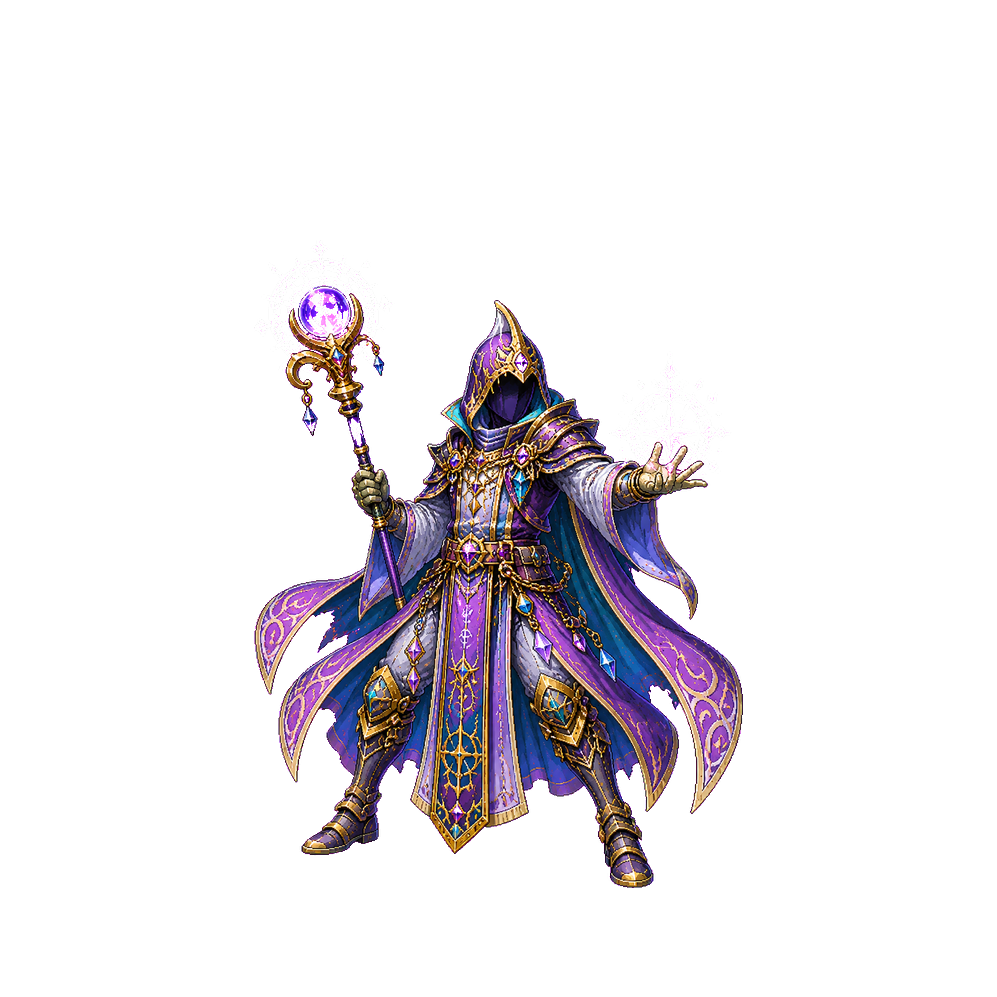
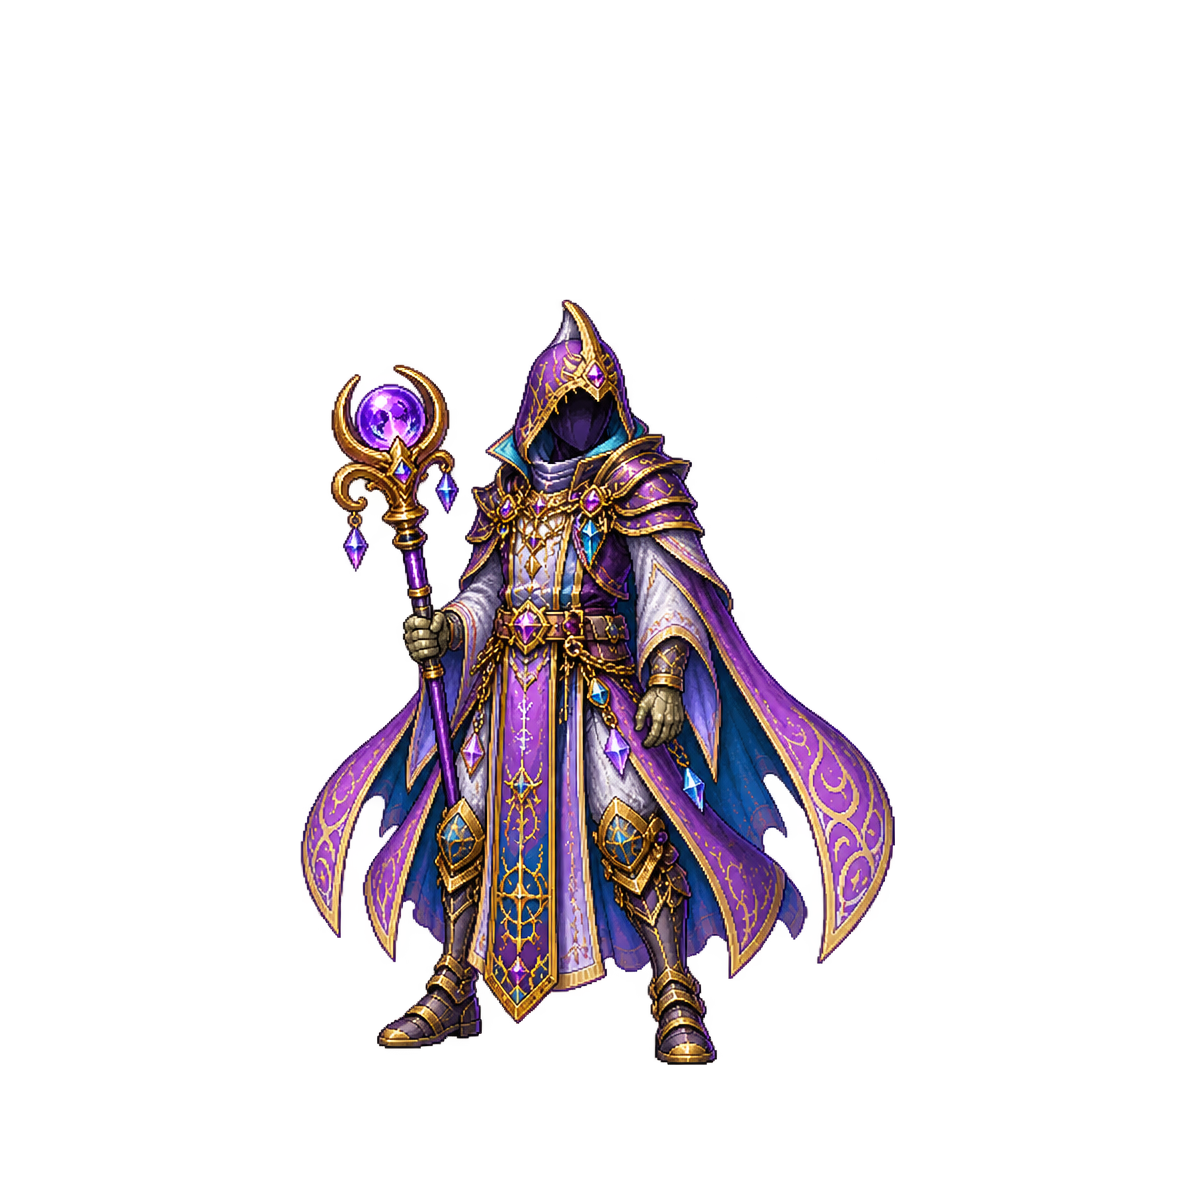
Stand the six recruitable heroes at rest in the dialogue tableaux: a rest pose drawn from each master by the final images tool, Lyra piloted then the five others accepted by the operator, framed without resampling at the company's stature, with provenance; combat, portraits and the company register 
Agent: claude; Run: claude-bilan-recit-20261113T1644Z

Changed region(s): [[0.2487, 0.2487, 0.7462, 0.9017]]

diff --git a/tools/art/finalImages.ts b/tools/art/finalImages.ts
@@ -14,14 +14,18 @@
  *     beside the generated image). Nothing is integrated: only images the operator accepts are integrated afterwards.
  *
  *   npx vite-node tools/art/finalImages.ts -- poses --group heroes --step pose|fx   (combat poses, OD-2026-11-13-A)
+ *
+ *   npx vite-node tools/art/finalImages.ts -- rest --units lyra   (tableau rest poses of the recruitable heroes, 2026-11-13)
+ *     Draws each hero standing at rest from its master, for the dialogue tableaux, into tmp/tableau-rest/out/.
  *     Draws the three combat poses of the units of tools/art/combatPosesTable.ts (--group or --units id1,id2), then adds
  *     their baked effects (--step fx), into tmp/combat-poses/out/. --poses dash,attack limits the poses, --force redoes them.
  *
  * Options for run: --model <name> (default: the project's earlier approved image model), --quality <low|medium|high> (default high), --force (redo
  * images already generated), --concurrency <1-6> (requests at once, default 1). tmp/ is ignored by Git.
  */
+import { execSync } from 'node:child_process';
 import { existsSync, mkdirSync, readFileSync, renameSync, writeFileSync } from 'node:fs';
-import { join, resolve } from 'node:path';
+import { dirname, join, resolve } from 'node:path';
 import * as bear from '../../src/campaign/plateaux/bear/bearPresentation';
 import * as dragon from '../../src/campaign/plateaux/dragon/dragonPresentation';
 import * as scorpion from '../../src/campaign/plateaux/scorpion/scorpionPresentation';
@@ -548,6 +552,69 @@ async function runPoses(args: string[], option: (name: string) => string | undef
   console.log(`Finished${failed ? ` with ${failed} failed` : ''}. Outputs in tmp/combat-poses/out/.`);
 }
 
+/**
+ * Tableau rest poses of the six recruitable heroes (operator's choice of 2026-11-13: « Générer, pilote sur Lyra »). Their
+ * masters are action poses, unlike the company's and every plateau character's; the dialogue tableaux need them standing
+ * at rest. One call per hero, the master as the first reference and a company master as the second, for the pose only.
+ * Outputs go to tmp/tableau-rest/out/ (ignored by Git); nothing is integrated before the operator accepts the image.
+ */
+export const REST_DIR = join(ROOT, 'tmp', 'tableau-rest');
+export const REST_POSE_REFERENCE = 'public/assets/characters/pixel/masters/alistair.png';
+export const restOut = (unitId: string) => ['tmp', 'tableau-rest', 'out', `${unitId}__rest.png`].join('/');
+
+export function restPrompt(unitId: string): string {
+  const unit = POSE_UNITS[unitId];
+  if (!unit || unit.group !== 'heroes') throw new Error(`Not a recruitable hero: ${unitId}`);
+  return sentences(STYLE,
+    `The first attached image is our own game character: ${unit.look}`,
+    'The second attached image is another character of our game, given only to show the standing rest pose every character takes in our dialogue scenes: copy that kind of pose and framing, never its look, colours or weapon.',
+    'Draw the first character again, standing calmly at rest in a dialogue scene: upright, weight on both feet, the body turned three-quarters, the arms lowered and relaxed, the weapon held at rest, lowered or carried, never attacking, casting, aiming or leaping.',
+    'Keep everything identical to the first image: the same body, armour and clothes, the same colours, the same proportions and the same weapon.',
+    unit.intrinsic,
+    'One single full-body sprite, never cropped, the feet on a ground line near the bottom of the canvas, with empty space all around it, on a fully transparent background.',
+    COVERED_FACE_RULE,
+    'The helmet, mask or hood stays in place.',
+    unit.intrinsic ? NO_OTHER_EFFECTS : NO_EFFECTS);
+}
+
+/** The project's env file lives in the main checkout; a worktree session reads it there, through the same loader. */
+function mainCheckoutRoot(): string | null {
+  try {
+    const common = execSync('git rev-parse --path-format=absolute --git-common-dir', { cwd: ROOT, encoding: 'utf8' }).trim();
+    return dirname(common);
+  } catch {
+    return null;
+  }
+}
+
+async function runRest(args: string[], option: (name: string) => string | undefined): Promise<void> {
+  const main = mainCheckoutRoot();
+  const found = openAiKey() ?? (main ? openAiKey(main) : null);
+  if (!found) throw new Error('No OPENAI_API_KEY in this terminal or in .env.local; the tool never prints or stores it.');
+  console.log(`OpenAI access: ${found.source} (value never shown).`);
+  const units = (option('--units') ?? '').split(',').map((id) => id.trim()).filter(Boolean);
+  if (!units.length) throw new Error('Choose heroes with --units lyra or --units aldric,morvan,eldwin,talon,gunnar.');
+  const model = option('--model') ?? 'gpt-image-2.5-sunburst-2026-09-08';
+  const quality = option('--quality') ?? 'high';
+  mkdirSync(join(REST_DIR, 'out'), { recursive: true });
+  let failed = 0;
+  await Promise.all(units.map(async (unitId) => {
+    const out = restOut(unitId);
+    if (existsSync(join(ROOT, out)) && !args.includes('--force')) { console.log(`Already generated: ${out}`); return; }
+    const prompt = restPrompt(unitId);
+    const references = [POSE_UNITS[unitId]!.master, REST_POSE_REFERENCE];
+    try {
+      writeFileSync(join(ROOT, out), await requestImage(prompt, '1024x1024', true, references, found.key, model, quality));
+      appendToLog(join(REST_DIR, 'log.json'), [{ unitId, prompt, references, model, quality, out, at: new Date().toISOString() }]);
+      console.log(`done: ${out}`);
+    } catch (error) {
+      failed += 1;
+      console.log(`failed: ${out}: ${error instanceof Error ? error.message : String(error)}`);
+    }
+  }));
+  console.log(`Finished${failed ? ` with ${failed} failed` : ''}. Outputs in tmp/tableau-rest/out/.`);
+}
+
 function reviewPage(items: FinalImageBrief[]): string {
   const rows = items.map((item) => {
     const out = join(OUT_DIR, 'out', fileOf(item.id));
@@ -572,6 +639,7 @@ async function main(): Promise<void> {
     return;
   }
   if (command === 'poses') return runPoses(args, option);
+  if (command === 'rest') return runRest(args, option);
   if (command === 'poses-table') { writePoseTable(); console.log('Pose table written: tmp/combat-poses/units.json'); return; }
   if (command !== 'run') throw new Error(`Unknown command "${command}": use plan, run or poses.`);
   const found = openAiKey();

diff --git a/src/cinematics/tableauActorFraming.test.ts b/src/cinematics/tableauActorFraming.test.ts
@@ -1,10 +1,11 @@
 /**
- * Operator remark (2026-11-13): the six recruitable heroes stood about 1.5 times taller than the company in the static
- * dialogue tableaux, because their masters fill a taller canvas. The tableau now shows each hero's master re-framed,
- * without resampling, on the company's canvas convention (tools/art/frame_tableau_actors.py); portraits, the company
- * register and combat keep their pictures.
+ * Operator remarks (2026-11-13): the six recruitable heroes stood about 1.5 times taller than the company in the static
+ * dialogue tableaux, because their masters fill a taller canvas, and they stood in action poses. The tableau now shows
+ * each hero's rest pose, drawn from its master and accepted by the operator, framed without resampling on the company's
+ * canvas convention (tools/art/frame_tableau_actors.py); portraits, the company register and combat keep their pictures.
  */
-import { existsSync } from 'node:fs';
+import { createHash } from 'node:crypto';
+import { existsSync, readFileSync } from 'node:fs';
 import { join } from 'node:path';
 import { describe, expect, it } from 'vitest';
 import { assets } from '../render/assetManifest';
@@ -21,6 +22,20 @@ describe('the recruitable heroes framed like the company in the tableaux (operat
       expect(existsSync(join(process.cwd(), 'public', tableau)), hero).toBe(true);
       expect(actorImage(hero), hero).toBe(tableau);
       expect(profiles[hero]?.ui, hero).toBe(`/assets/characters/pixel/archive/non-demo/${hero}.png`);
+    }
+  });
+
+  it('records where every generated rest pose comes from and who accepted it (operator’s choice of 2026-11-13)', () => {
+    const provenance = JSON.parse(readFileSync(join(process.cwd(), 'tools/art/provenance/tableau-rest-poses.json'), 'utf8')) as
+      Record<string, { file: string; sha256: string; approval?: string; references: string[] }>;
+    expect(Object.keys(provenance).length).toBeGreaterThan(0);
+    for (const [id, entry] of Object.entries(provenance)) {
+      const hero = id.replace('tableau-rest:', '');
+      expect(HEROES as readonly string[], id).toContain(hero);
+      expect(entry.file).toBe(`/assets/characters/pixel/tableau/${hero}.png`);
+      expect(createHash('sha256').update(readFileSync(join(process.cwd(), 'public', entry.file))).digest('hex'), id).toBe(entry.sha256);
+      expect(entry.approval, id).toMatch(/Opérateur, 2026-11-13/);
+      expect(entry.references[0], id).toBe(`public/assets/characters/pixel/archive/non-demo/${hero}.png`);
     }
   });
 

diff --git a/src/render/assetManifest.ts b/src/render/assetManifest.ts
@@ -107,7 +107,8 @@ export const assets = {
     skeleton: { full: '/assets/characters/pixel/masters/skeleton.png', dialogue: '/assets/characters/pixel/masters/skeleton.png', ui: '/assets/characters/pixel/masters/skeleton.png', fallback: '/assets/characters/pixel/masters/skeleton.png', dialogueScale: 0.94, dialogueSideOffset: '0px', combatHeight: 1.95, uiCropMode: 'contain' },
     troll: { full: '/assets/characters/pixel/archive/non-demo/troll.png', dialogue: '/assets/characters/pixel/archive/non-demo/troll.png', ui: '/assets/characters/pixel/archive/non-demo/troll.png', fallback: '/assets/characters/pixel/archive/non-demo/troll.png', dialogueScale: 1, dialogueSideOffset: '0px', combatHeight: 2.55, uiCropMode: 'contain' },
     undead_champion: { full: '/assets/characters/pixel/archive/non-demo/undead_champion.png', dialogue: '/assets/characters/pixel/archive/non-demo/undead_champion.png', ui: '/assets/characters/pixel/archive/non-demo/undead_champion.png', fallback: '/assets/characters/pixel/archive/non-demo/undead_champion.png', dialogueScale: 1, dialogueSideOffset: '0px', combatHeight: 2.38, uiCropMode: 'contain' },
-    // Operator remark (2026-11-13): `tableau` is each hero's master re-framed without resampling on the company's
+    // Operator remarks (2026-11-13): `tableau` is each hero's rest pose, drawn from its master and accepted by the operator
+    // (tools/art/provenance/tableau-rest-poses.json), framed without resampling on the company's
     // canvas convention (tools/art/frame_tableau_actors.py), so the static tableau shows them at the company's stature.
     aldric: { full: '/assets/characters/pixel/archive/non-demo/aldric.png', dialogue: '/assets/characters/pixel/archive/non-demo/aldric.png', ui: '/assets/characters/pixel/archive/non-demo/aldric.png', fallback: '/assets/characters/pixel/archive/non-demo/aldric.png', dialogueScale: 1, dialogueSideOffset: '0px', combatHeight: 2.08, uiCropMode: 'contain', tableau: '/assets/characters/pixel/tableau/aldric.png' },
     morvan: { full: '/assets/characters/pixel/archive/non-demo/morvan.png', dialogue: '/assets/characters/pixel/archive/non-demo/morvan.png', ui: '/assets/characters/pixel/archive/non-demo/morvan.png', fallback: '/assets/characters/pixel/archive/non-demo/morvan.png', dialogueScale: 0.98, dialogueSideOffset: '0px', combatHeight: 2.08, uiCropMode: 'contain', tableau: '/assets/characters/pixel/tableau/morvan.png' },

diff --git a/tools/art/frame_tableau_actors.py b/tools/art/frame_tableau_actors.py
@@ -1,41 +1,51 @@
-"""Frame the six recruitable heroes' masters for the static dialogue tableaux (operator remark, 2026-11-13).
+"""Frame the six recruitable heroes for the static dialogue tableaux (operator remarks, 2026-11-13).
 
 The tableau fits every actor picture into boxes of the same width (`.narrative-cast__actor`, object-fit: contain).
 The company's masters are 512x512 canvases where a standing figure fills about two thirds of the height above a
 margin of 56 px (10.9 %). The six heroes' masters are 640x768 canvases where the figure fills 84 % of the height
 above a margin of 34 px, so they showed about 1.5 times taller than the company and lower on the ground.
 
-This script only re-frames: it crops each master to its visible figure and pads it, without any resampling, on a
-square canvas where one world unit (the heroes' `worldHeight`, tools/art/combatPosesTable.ts) takes the same share of
-the height as on the company's masters, with the same share of margin under the feet. No pixel is drawn or changed.
+This script only re-frames: it crops a picture to its visible figure and pads it, without any resampling, on a square
+canvas where one world unit (the heroes' `worldHeight`, tools/art/combatPosesTable.ts) takes the same share of the
+height as on the company's masters, with the same share of margin under the feet. No pixel is drawn or changed.
 
-Usage: py -3 tools/art/frame_tableau_actors.py   (writes public/assets/characters/pixel/tableau/<hero>.png)
+- From the master (default): the heroes' masters come from one pipeline, about 313 px per world unit.
+- From an accepted rest pose (`--rest lyra,...`): the standing figure the tool drew (finalImages.ts `rest`, in
+  tmp/tableau-rest/out/), measured on its own height, since a rest pose stands upright.
+
+Usage: py -3 tools/art/frame_tableau_actors.py [--rest lyra,aldric]   (writes public/assets/characters/pixel/tableau/)
 """
+import sys
 from pathlib import Path
 
 from PIL import Image
 
 ROOT = Path(__file__).resolve().parents[2]
 SOURCE = ROOT / 'public/assets/characters/pixel/archive/non-demo'
+REST_SOURCE = ROOT / 'tmp/tableau-rest/out'
 TARGET = ROOT / 'public/assets/characters/pixel/tableau'
-HEROES = ('aldric', 'morvan', 'lyra', 'eldwin', 'talon', 'gunnar')
+# worldHeight of tools/art/combatPosesTable.ts
+HEROES = {'aldric': 2.08, 'morvan': 2.12, 'lyra': 2.02, 'eldwin': 2.04, 'talon': 2.05, 'gunnar': 2.06}
 
 # The company's masters (alistair, archer, sage_seraphine, dark_mage): figure share of the canvas height per world
 # unit of their combat height, and margin under the feet as a share of the canvas.
 COMPANY_SHARE_PER_UNIT = 0.667 / 2.125
 COMPANY_FOOT_MARGIN = 56 / 512
-# The heroes' masters come from one pipeline: about 313 px per world unit for the five standing figures.
 HERO_PIXELS_PER_UNIT = 313
 ALPHA_THRESHOLD = 24
 
 
-def frame(hero: str) -> tuple[int, tuple[int, int, int, int]]:
-    master = Image.open(SOURCE / f'{hero}.png').convert('RGBA')
-    box = master.getchannel('A').point(lambda value: 255 if value > ALPHA_THRESHOLD else 0).getbbox()
+def frame(hero: str, rest: bool) -> tuple[int, tuple[int, int, int, int]]:
+    path = REST_SOURCE / f'{hero}__rest.png' if rest else SOURCE / f'{hero}.png'
+    picture = Image.open(path).convert('RGBA')
+    box = picture.getchannel('A').point(lambda value: 255 if value > ALPHA_THRESHOLD else 0).getbbox()
     if box is None:
-        raise SystemExit(f'{hero}: empty master')
-    figure = master.crop(box)
-    size = round(HERO_PIXELS_PER_UNIT / COMPANY_SHARE_PER_UNIT)
+        raise SystemExit(f'{hero}: empty picture')
+    figure = picture.crop(box)
+    if rest:
+        size = round(figure.height / (COMPANY_SHARE_PER_UNIT * HEROES[hero]))
+    else:
+        size = round(HERO_PIXELS_PER_UNIT / COMPANY_SHARE_PER_UNIT)
     margin = round(COMPANY_FOOT_MARGIN * size)
     canvas = Image.new('RGBA', (size, size), (0, 0, 0, 0))
     left = (size - figure.width) // 2
@@ -49,6 +59,11 @@ def frame(hero: str) -> tuple[int, tuple[int, int, int, int]]:
 
 
 if __name__ == '__main__':
+    rest = set(sys.argv[sys.argv.index('--rest') + 1].split(',')) if '--rest' in sys.argv else set()
+    unknown = rest - HEROES.keys()
+    if unknown:
+        raise SystemExit(f'Not a recruitable hero: {", ".join(sorted(unknown))}')
     for hero in HEROES:
-        size, box = frame(hero)
-        print(f'{hero}: figure {box[2] - box[0]}x{box[3] - box[1]} on a {size}x{size} canvas')
+        size, box = frame(hero, hero in rest)
+        source = 'rest pose' if hero in rest else 'master'
+        print(f'{hero} ({source}): figure {box[2] - box[0]}x{box[3] - box[1]} on a {size}x{size} canvas')

diff --git a/docs/reports/bilan-recit-2026-11-13.md b/docs/reports/bilan-recit-2026-11-13.md
@@ -106,12 +106,16 @@ Les trois combats sont de rang normal et rapportent 0 de réputation (échelle d
 - **Portée.** Le champ `tableau` des six profils (`assetManifest.ts`) n'est lu que par le tableau (`actorImage`, `NarrativeSceneSurface.ts`). Portraits, registre de compagnie et combat ne changent pas. Test : `src/cinematics/tableauActorFraming.test.ts`.
 - **Mesure dans la page** (scène du hameau, dev) : Lyra 270 px, Alistair 286, Kestrel 275, Marian 308 avec son bâton. Les pieds sont alignés entre 698 et 704 px. Le volet du navigateur était masqué : les captures n'étaient pas fiables, la mesure vient du DOM.
 
-`UNDECIDED`, pose de repos. Une planche des personnages des tableaux montre que la compagnie et tous les personnages des plateaux ont une pose de repos. Seuls les six héros recrutables sont en pose d'action, car leur master, d'une autre chaîne, sert aussi de pose `prepare` en combat (OD-2026-11-13-A) :
-- Aldric lève son marteau ;
-- Morvan brandit sa faux ;
-- Lyra lance un sort ;
-- Eldwin incante ;
-- Talon saute, shuriken en main ;
-- Gunnar pointe son canon.
+`APPROVED DECISION` puis `CURRENT FACT`, pose de repos. Une planche des personnages des tableaux montre que la compagnie et tous les personnages des plateaux ont une pose de repos. Seuls les six héros recrutables étaient en pose d'action, car leur master, d'une autre chaîne, sert aussi de pose `prepare` en combat (OD-2026-11-13-A) :
+- Aldric levait son marteau ;
+- Morvan brandissait sa faux ;
+- Lyra lançait un sort ;
+- Eldwin incantait ;
+- Talon sautait, shuriken en main ;
+- Gunnar pointait son canon.
 
-Leur donner une pose de repos demande de générer six images avec l'outil des images finales. La question est posée à l'opérateur.
+L'opérateur a choisi « Générer, pilote sur Lyra ». Il a validé le pilote (« Valider, lancer les cinq »), puis les cinq autres (« Intégrer les cinq »), sur planches avant/après.
+- **Génération.** Commande `rest` de `tools/art/finalImages.ts` : un appel par héros, le master en première référence et le master d'Alistair en seconde, pour la pose seulement. La règle des visages couverts (OD-2026-11-11-G) est dans chaque prompt, et chaque pose a été vérifiée sur planche. La clé du projet est lue par l'outil depuis le `.env.local` du dossier principal, jamais affichée.
+- **Intégration.** `frame_tableau_actors.py --rest` cadre chaque pose, sans rééchantillonnage, sur la convention de la compagnie, mesurée sur sa propre hauteur debout. Provenance et empreintes : `tools/art/provenance/tableau-rest-poses.json`, vérifiées par `tableauActorFraming.test.ts`.
+- **Portée.** Seul le tableau change. Le combat garde ses quatre poses, le portrait et le registre gardent le master.
+- **Limite.** Le volet du navigateur a été fermé pendant l'intégration. Le contrôle dans la page a été fait sur le recadrage du master (même convention : 63 à 67 % de la toile, même marge) ; il n'a pas été refait sur les poses de repos.
